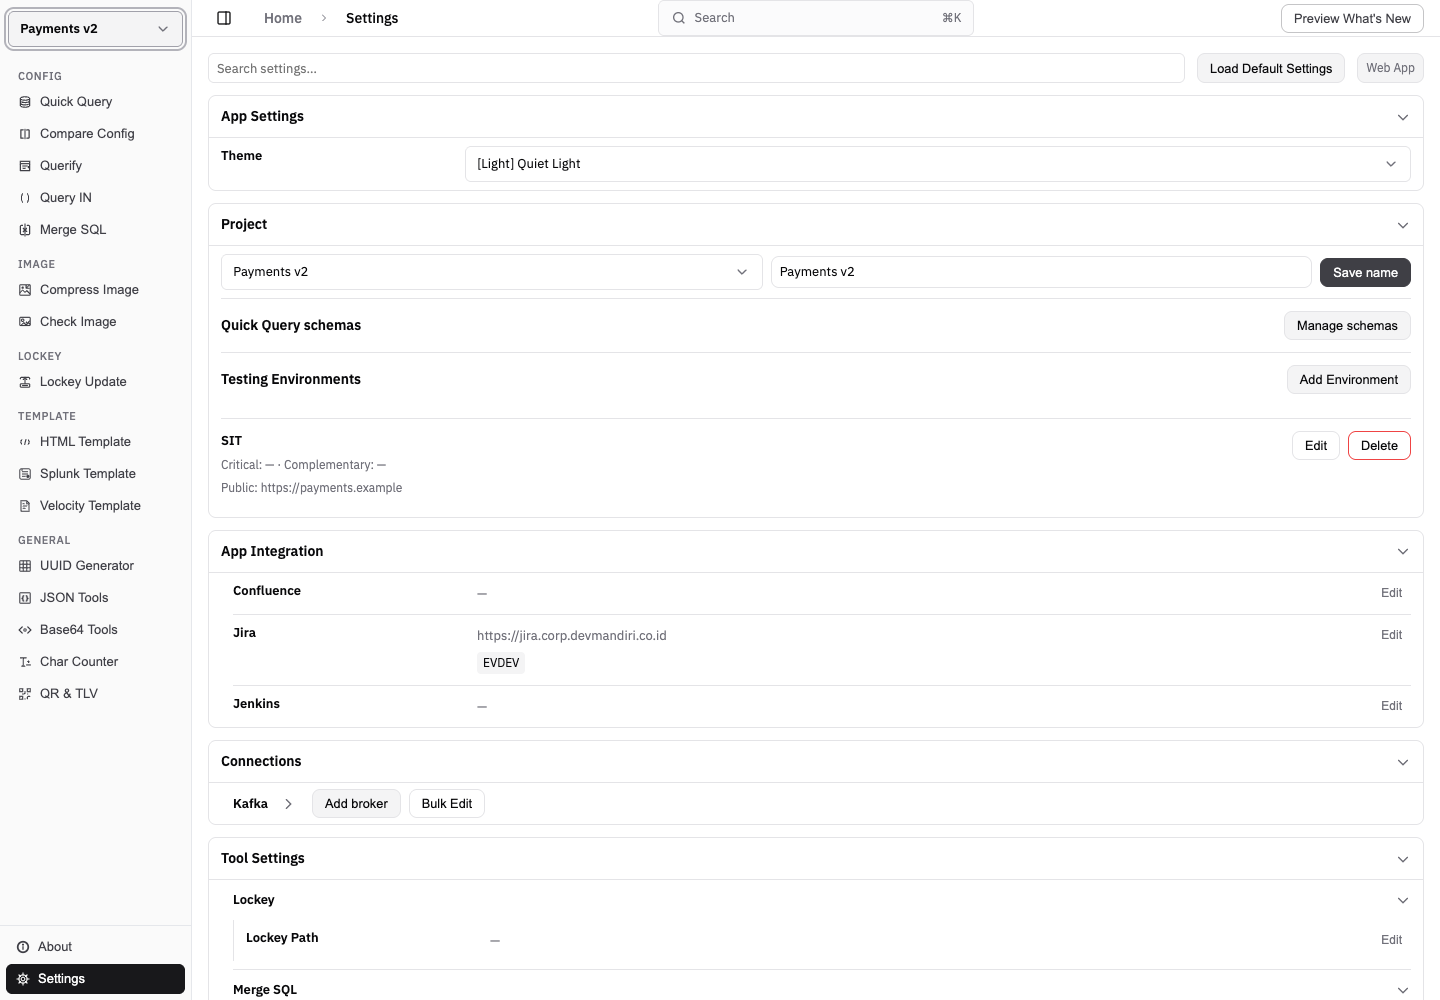
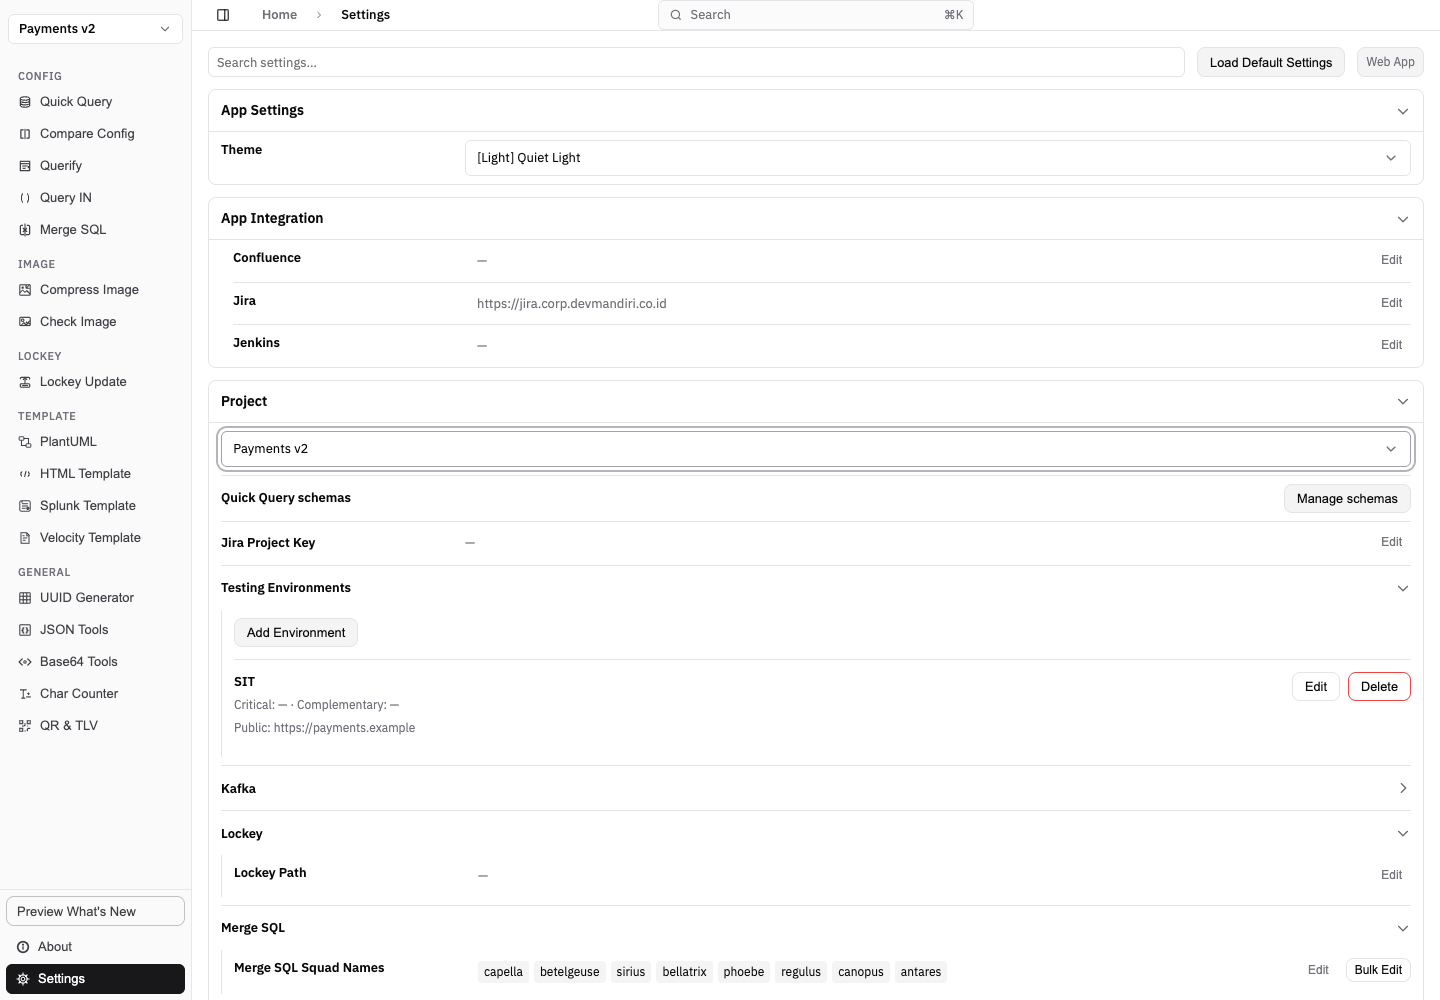
Refine project settings and verification coverage

diff --git a/frontend/pages/settings/projects.js b/frontend/pages/settings/projects.js
@@ -1,23 +1,32 @@
+import { mountEditDialog } from "./edit-dialog.js";
 import { listSharedProjects, publishProjectName, useSharedProject } from "../../core/ProjectDirectory.js";
 import { createProject, getActiveProject, listProjects, renameProject } from "../../core/Projects.js";
 
-export function renderProjectManager({ eventBus, refresh }) {
+export function renderProjectManager({ eventBus, refresh, registerDispose }) {
   const wrapper = document.createElement("div");
   wrapper.className = "setting-item project-manager";
   wrapper.dataset.setting = "config.projects";
   wrapper.dataset.searchText = "Project department name save create rename publish shared choose directory";
   wrapper.innerHTML = `
-    <form class="project-name-form project-controls">
+    <div class="project-controls">
       <select class="setting-input project-settings-select" aria-label="Choose project"></select>
+    </div>
+    <form class="project-name-form" hidden>
+      <label class="integration-field">
+        <span>Project name</span>
       <input class="setting-input project-name-input" aria-label="Project name" placeholder="Project name"
         required maxlength="80" autocomplete="off" />
-      <button type="submit" class="btn btn-primary btn-sm project-name-save">Save name</button>
+      </label>
+      <div class="project-status" role="status" aria-live="polite"></div>
+      <div class="setting-actions">
+        <button type="button" class="btn btn-secondary btn-sm project-cancel">Cancel</button>
+        <button type="submit" class="btn btn-primary btn-sm project-name-save">Create project</button>
+      </div>
     </form>
     <div class="project-directory-feedback">
       <div class="project-directory-status" role="status" aria-live="polite"></div>
       <button type="button" class="btn btn-secondary btn-sm project-directory-retry" hidden>Retry</button>
-    </div>
-    <div class="project-status" role="status" aria-live="polite"></div>`;
+    </div>`;
   const select = wrapper.querySelector("select");
   const form = wrapper.querySelector("form");
   const input = wrapper.querySelector("input");
@@ -43,7 +52,8 @@ export function renderProjectManager({ eventBus, refresh }) {
       }
     }
     select.add(new Option("New project…", "__new__"));
-    select.value = creating ? "__new__" : active.id;
+    select.add(new Option("Rename project…", "__rename__"));
+    select.value = active.id;
   };
   const setBusy = (value) => {
     busy = value;
@@ -51,6 +61,23 @@ export function renderProjectManager({ eventBus, refresh }) {
     input.disabled = value;
     saveButton.disabled = value;
   };
+  const closeEditor = () => {
+    if (busy) return;
+    modal.close();
+    form.hidden = true;
+    creating = false;
+    savedProject = null;
+    fillOptions();
+  };
+  const modal = mountEditDialog({
+    root: wrapper,
+    form,
+    onCancel: closeEditor,
+    isBusy: () => busy,
+    fallbackFocus: () => wrapper.querySelector(".ad-searchable-dropdown-trigger") || select,
+  });
+  registerDispose?.(() => modal.dispose());
+  wrapper.querySelector(".project-cancel").addEventListener("click", closeEditor);
   const loadDirectory = async () => {
     retryButton.hidden = true;
     directoryStatus.textContent = "";
@@ -71,8 +98,12 @@ export function renderProjectManager({ eventBus, refresh }) {
     status.textContent = "";
     savedProject = null;
     creating = select.value === "__new__";
-    if (creating) {
-      input.value = "";
+    if (creating || select.value === "__rename__") {
+      input.value = creating ? "" : active.name;
+      saveButton.textContent = creating ? "Create project" : "Save name";
+      form.hidden = false;
+      fillOptions();
+      modal.open(creating ? "New project" : "Rename project");
       input.focus();
       return;
     }
@@ -87,7 +118,7 @@ export function renderProjectManager({ eventBus, refresh }) {
       fillOptions();
       if (shared) window.dispatchEvent(new Event("adtools:projects-updated"));
     } catch (error) {
-      status.textContent = error.message;
+      eventBus?.emit?.("notification:error", { message: error.message });
       fillOptions();
     } finally {
       setBusy(false);
@@ -124,12 +155,14 @@ export function renderProjectManager({ eventBus, refresh }) {
       try {
         await publishProjectName(project.name);
       } catch (error) {
-        status.textContent = `Name saved on this device. Could not publish: ${error.message} Select Save name to retry.`;
+        status.textContent = `Name saved on this device. Could not publish: ${error.message} Try saving again to publish it.`;
         fillOptions();
         window.dispatchEvent(new Event("adtools:projects-updated"));
         return;
       }
       creating = false;
+      modal.close();
+      form.hidden = true;
       if (project.id !== active.id) {
         if (await globalThis.app?.switchProject(project.id)) return;
         window.dispatchEvent(new Event("adtools:projects-updated"));
@@ -147,7 +180,7 @@ export function renderProjectManager({ eventBus, refresh }) {
       status.textContent = error.message;
     } finally {
       setBusy(false);
-      saveButton.textContent = "Save name";
+      saveButton.textContent = creating ? "Create project" : "Save name";
     }
   });
   return wrapper;

diff --git a/frontend/pages/settings/main.js b/frontend/pages/settings/main.js
@@ -496,6 +496,7 @@ class SettingsPage {
     const initiallyExpanded = localStorage.getItem(expandedKey) ?? (cat.initiallyExpanded ? "true" : "false");
     const wrapper = document.createElement("section");
     wrapper.className = "settings-category";
+    if (cat.id === "project-settings") wrapper.classList.add("settings-project");
     wrapper.setAttribute("aria-expanded", initiallyExpanded === "true" ? "true" : "false");
 
     const heading = document.createElement(`h${Math.min(headingLevel, 6)}`);
@@ -544,11 +545,6 @@ class SettingsPage {
     }
 
     let actions = content.querySelector(":scope > .setting-item-oracle > .oracle-connections-header");
-    const kafkaHeader = content.querySelector(":scope > .setting-item-kafka-brokers > .kafka-brokers-header");
-    if (kafkaHeader) {
-      actions = kafkaHeader.querySelector(".setting-row-actions");
-      kafkaHeader.remove();
-    }
     if (actions) {
       actions.classList.add("settings-category-actions");
       heading.classList.add("settings-category-heading-with-actions");
@@ -967,7 +963,9 @@ class SettingsPage {
           const details = document.createElement("details");
           details.className = "environment-connections";
           const summary = document.createElement("summary");
-          summary.textContent = "Oracle connections";
+          summary.innerHTML = `<span>Oracle connections</span>
+            <svg class="settings-category-toggle" aria-hidden="true" width="16" height="16" viewBox="0 0 24 24"
+              fill="none" stroke="currentColor" stroke-width="2"><path d="m9 5 7 7-7 7" /></svg>`;
           details.append(summary, this.renderItem({ ...oracleItem, environmentId: environment.id }));
           entry.append(details);
         }
@@ -1164,7 +1162,11 @@ class SettingsPage {
   renderItem(item) {
     const service = item.environmentId === undefined ? this.service : this.service.forEnvironment(item.environmentId);
     if (item.type === "project-manager") {
-      return renderProjectManager({ eventBus: this.eventBus, refresh: () => this.renderCategories(this.currentConfig.categories) });
+      return renderProjectManager({
+        eventBus: this.eventBus,
+        refresh: () => this.renderCategories(this.currentConfig.categories),
+        registerDispose: (dispose) => this.settingDisposers.add(dispose),
+      });
     }
     if (item.type === "project-schema") return renderProjectSchemaLink({ router: globalThis.app?.router });
     if (item.type === "kafka-brokers") return this.renderKafkaBrokersItem(item);

diff --git a/frontend/pages/settings/styles.css b/frontend/pages/settings/styles.css
@@ -1059,7 +1059,7 @@ body .settings-edit-dialog-wide {
 
 .project-controls {
   display: grid;
-  grid-template-columns: minmax(0, 1fr) minmax(0, 1fr) auto;
+  grid-template-columns: minmax(0, 1fr);
   align-items: center;
   gap: 8px;
 }
@@ -1091,7 +1091,7 @@ body .settings-edit-dialog-wide {
 
 .project-section-heading {
   margin: 0;
-  font-size: 0.875rem;
+  font-size: 0.8125rem;
   font-weight: 600;
 }
 
@@ -1122,7 +1122,7 @@ body .settings-edit-dialog-wide {
 
 @media (max-width: 600px) {
   .project-controls {
-    grid-template-columns: minmax(0, 1fr) auto;
+    grid-template-columns: minmax(0, 1fr);
   }
 
   .project-controls > .ad-searchable-dropdown,
@@ -1136,17 +1136,66 @@ body .settings-edit-dialog-wide {
 }
 
 .environment-connections {
-  padding: 0 12px 12px;
+  padding-bottom: 12px;
 }
 
 .environment-connections > summary {
+  display: flex;
+  align-items: center;
+  justify-content: space-between;
+  gap: 12px;
   cursor: pointer;
-  padding: 8px 0;
-  font-weight: 500;
+  padding: 10px 0;
+  font-size: 0.8125rem;
+  font-weight: 600;
+  list-style: none;
+}
+
+.environment-connections > summary::-webkit-details-marker {
+  display: none;
+}
+
+.environment-connections[open] > summary .settings-category-toggle {
+  transform: rotate(90deg);
+}
+
+.environment-connections > summary:hover {
+  background: hsl(var(--muted) / 0.5);
+}
+
+.environment-connections > summary:focus-visible {
+  outline: 2px solid hsl(var(--ring));
+  outline-offset: 2px;
 }
 
 .environment-connections .oracle-connections-header {
   display: flex;
   gap: 8px;
   margin-bottom: 8px;
+}
+
+/* Project settings share one reading edge; only expanded contents are inset. */
+.settings-project > .settings-category-content > .settings-category {
+  margin-inline-start: 0;
+}
+
+.settings-project > .settings-category-content > :is(.project-schema, .setting-item:not(.project-manager)) {
+  min-height: 44px;
+  box-sizing: border-box;
+  display: flex;
+  align-items: center;
+  padding-block: 8px;
+}
+
+.settings-project > .settings-category-content > .setting-item > .setting-row {
+  width: 100%;
+  align-items: center;
+}
+
+.settings-project > .settings-category-content > .settings-category > .settings-category-heading > .settings-category-header {
+  min-height: 44px;
+}
+
+.project-name-form .integration-field {
+  margin: 0;
 }

diff --git a/frontend/pages/settings/tests/connections-layout.test.js b/frontend/pages/settings/tests/connections-layout.test.js
@@ -39,16 +39,16 @@ it("nests Oracle under environments and keeps Redis and Kafka under Project", ()
   oracle.querySelector(".oracle-cancel-btn").click();
   const kafka = content.querySelector("#settings-category-kafka").closest(".settings-category");
   const kafkaHeading = kafka.querySelector(".settings-category-heading");
-  expect(kafkaHeading.querySelector(".kafka-broker-add")).not.toBeNull();
-  expect(kafkaHeading.querySelector(".settings-bulk-edit")).not.toBeNull();
-  expect(kafka.querySelector(".kafka-brokers-header")).toBeNull();
+  expect(kafkaHeading.querySelector(".kafka-broker-add")).toBeNull();
+  expect(kafkaHeading.querySelector(".settings-bulk-edit")).toBeNull();
+  expect(kafka.querySelector(".kafka-brokers-header")).not.toBeNull();
   kafkaHeading.querySelector(".settings-category-header").click();
-  kafkaHeading.querySelector(".kafka-broker-add").click();
+  kafka.querySelector(".kafka-broker-add").click();
   expect(kafka.getAttribute("aria-expanded")).toBe("true");
   expect(kafka.querySelector("dialog[open] h2").textContent).toBe("Add broker");
   kafka.querySelector(".kafka-broker-cancel").click();
   page.focusRequestedSetting("kafka.brokers");
-  expect(document.activeElement).toBe(kafkaHeading.querySelector(".kafka-broker-add"));
+  expect(document.activeElement).toBe(kafka.querySelector(".kafka-broker-add"));
 });
 it("keeps Kafka available on Web while Oracle and Redis remain desktop-only", () => {
   mount(false);

diff --git a/docs/verification/projects/README.md b/docs/verification/projects/README.md
@@ -107,3 +107,26 @@ platforms. The browser scenario opens the narrow sidebar before checking its
 menu, verifies project state there, and confirms it remains below the native
 header in the desktop layout simulation. See `../compact-header/README.md` for
 the platform header, centered search, and keyboard verification.
+
+## Consistent project settings (2026-11-03)
+
+Settings now shows one full-width project selector. “New project…” opens a focused
+name dialog; “Rename project…” preserves renaming through the same dialog.
+Cancel and Escape leave the active project unchanged. Failed publication retains
+local data and permits retry without creating another project.
+
+Quick Query schemas, Jira Project Key, and the service section headings share the
+same left edge, font size, and row rhythm. Kafka actions appear inside its expanded
+section. Oracle connection disclosures use the same right-aligned chevron and
+heading typography as other expandable sections.
+
+The browser commands above verify creation, renaming, cancellation, publication
+retry, shared project names, isolation, and equal heading alignment at 1440px and
+390px. New artifacts: `1440-create-project.png` and `390-create-project.png`.
+The related `frontend/core/tests/project-settings-browser.mjs` scenario also
+passed, including desktop Oracle editing and project-specific connection scopes;
+see `../project-settings/result.json` and screenshots.
+
+Validation: 63 settings tests and 9 project/switching tests passed; direct Vite
+production bundling passed. Targeted ESLint reported no errors (existing warnings
+remain). The design detector reported no findings. No dependencies were installed.
